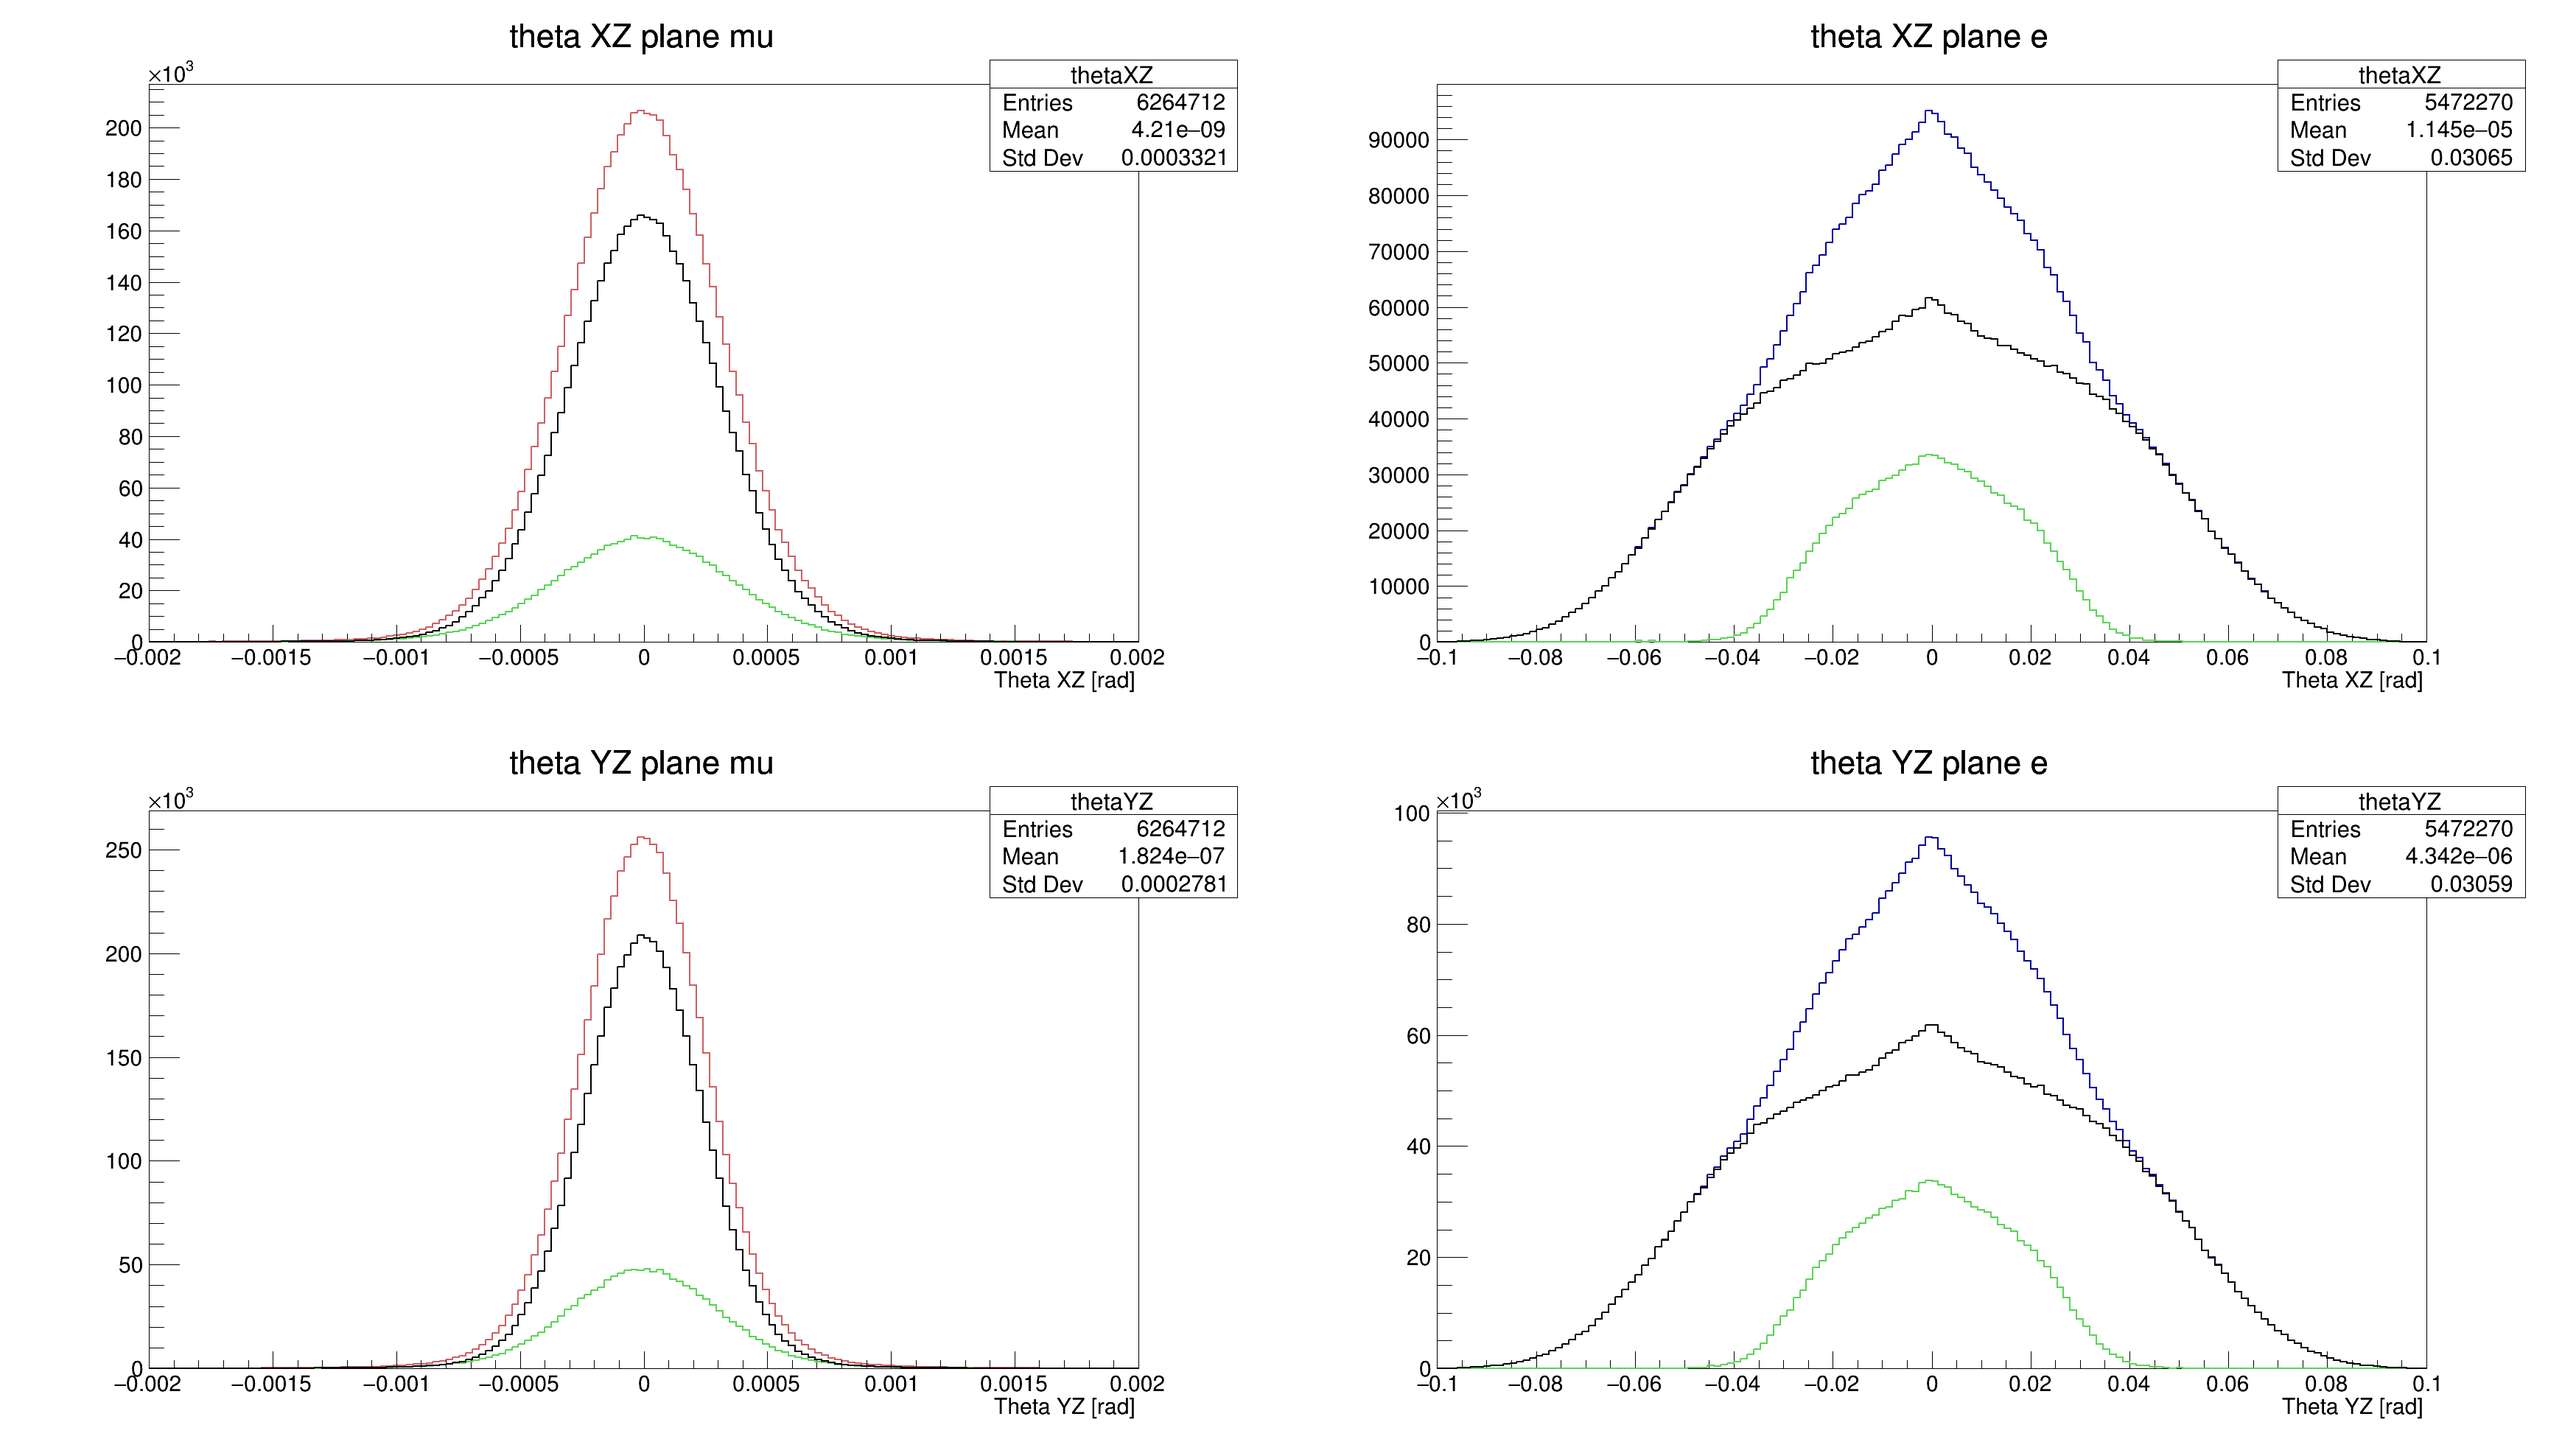
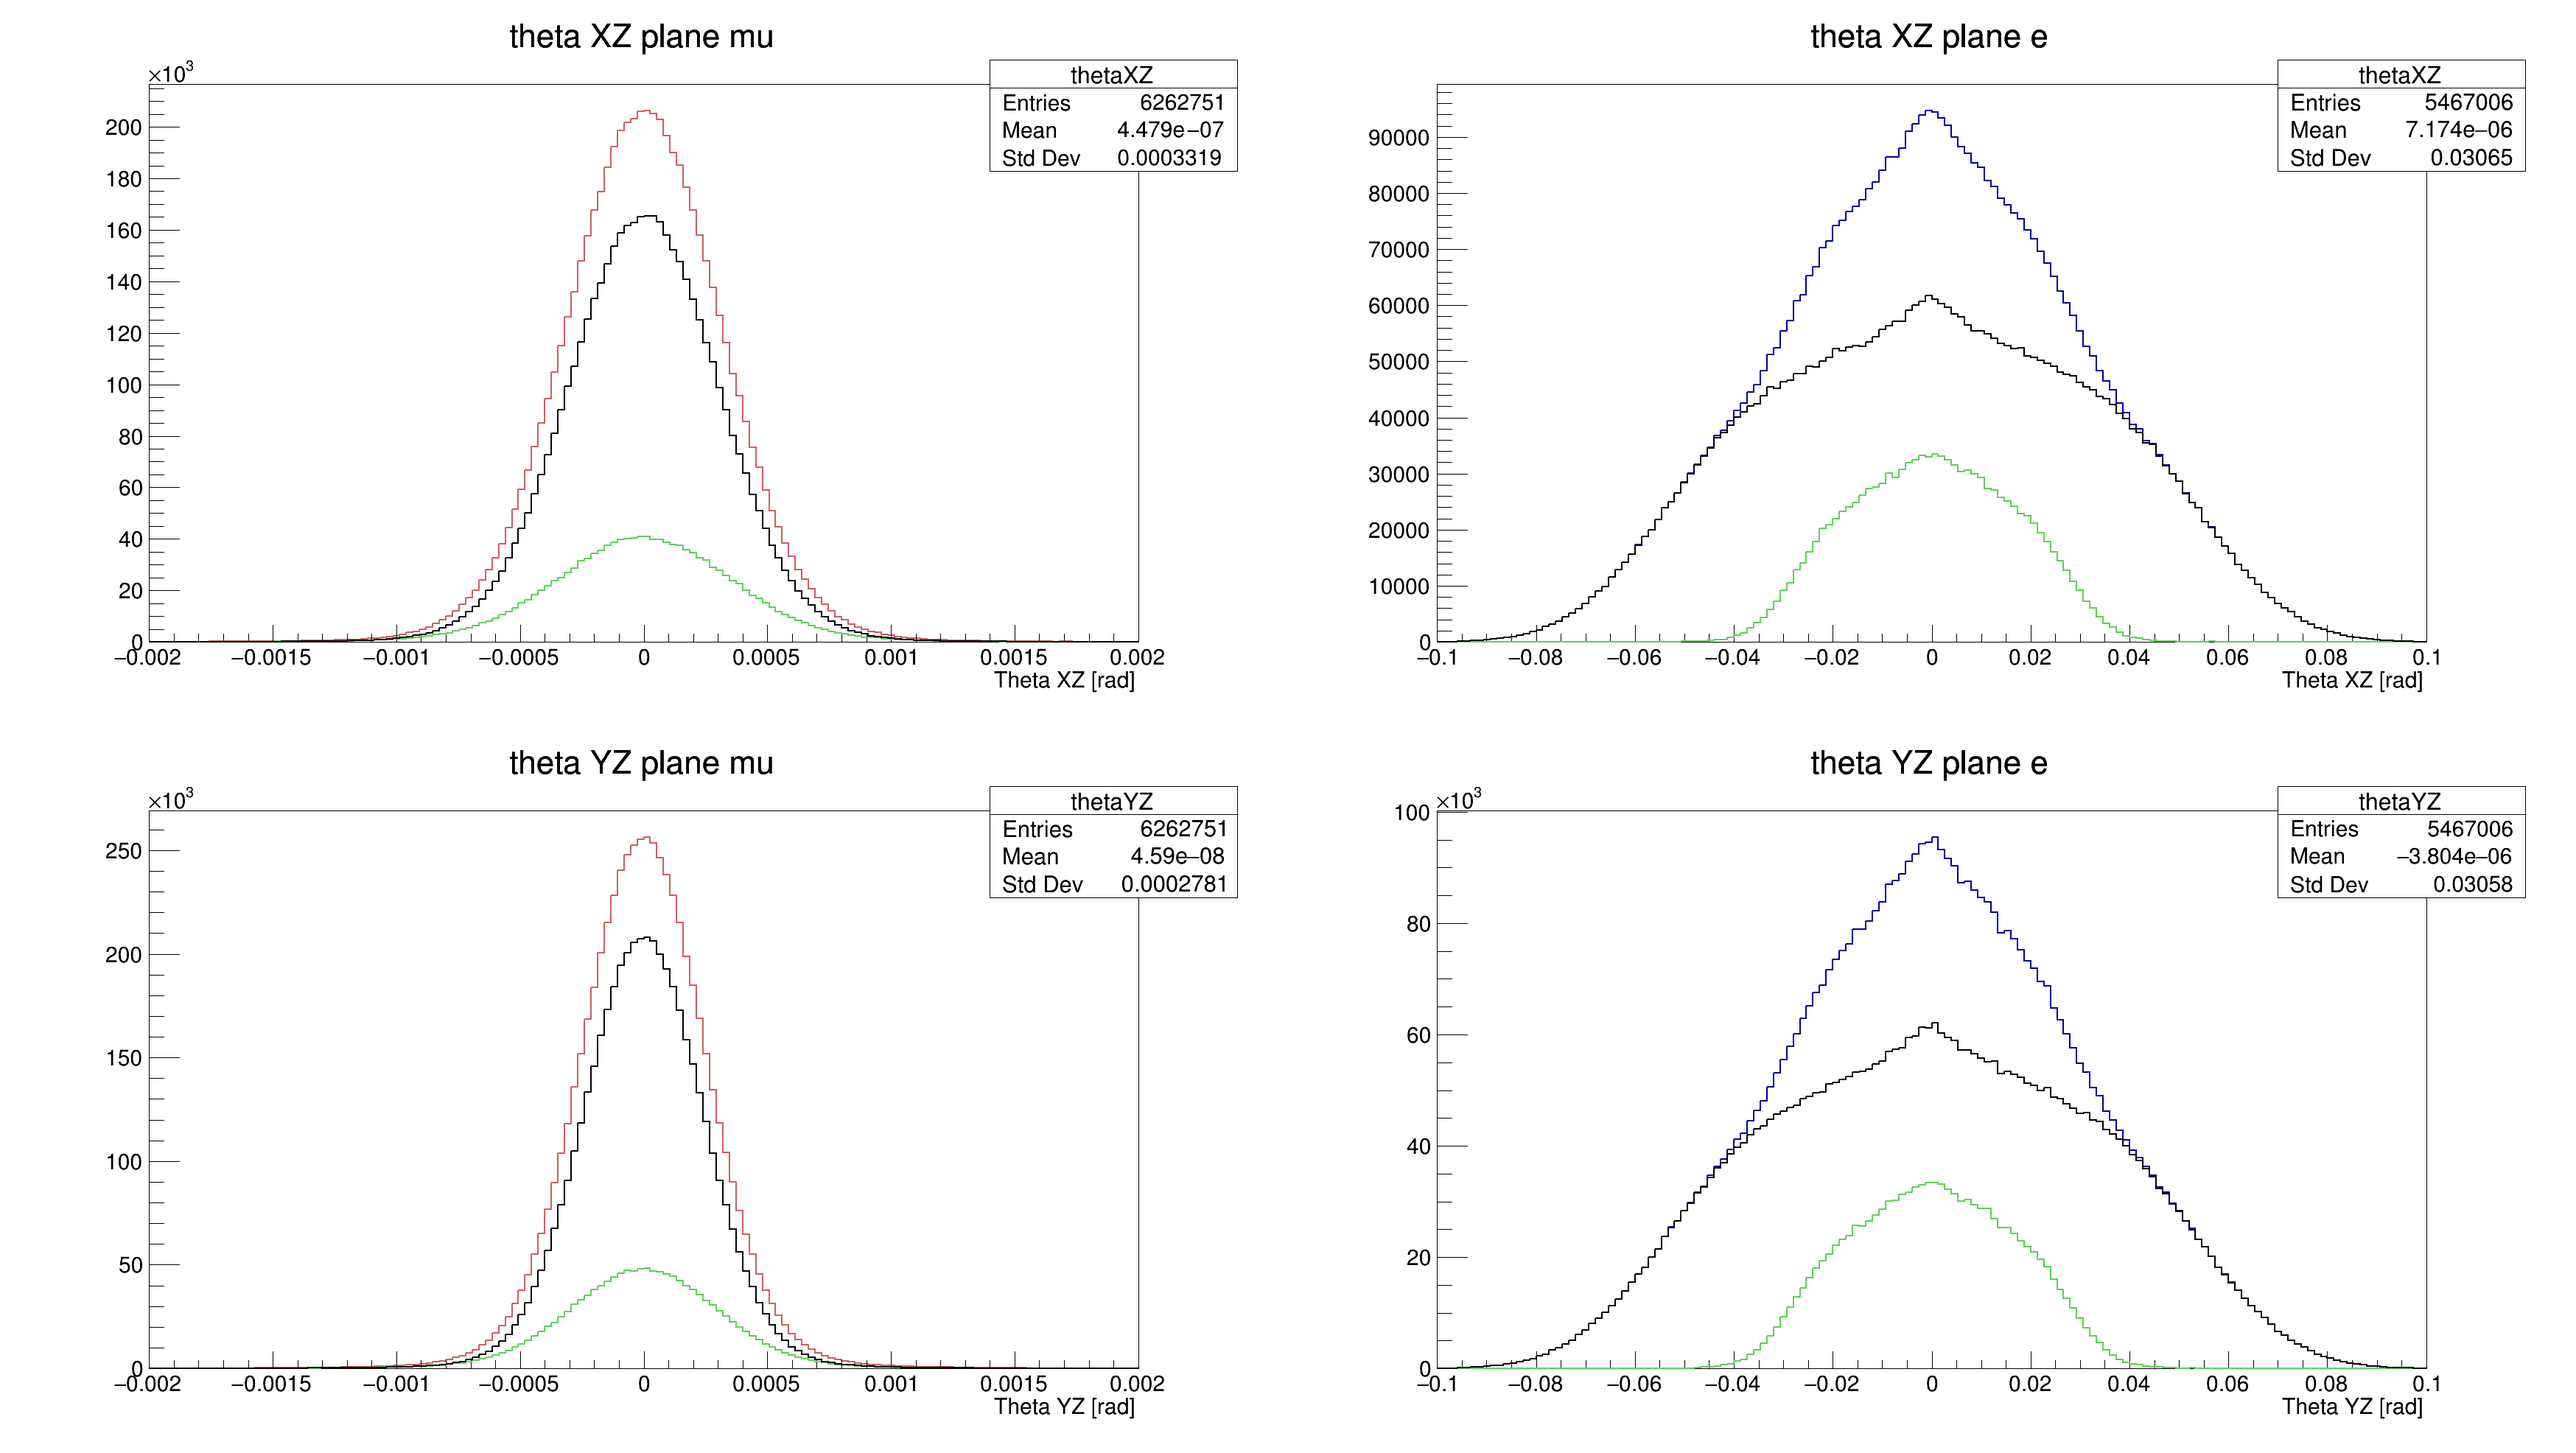
nodiv+

diff --git a/code/FastSim.cc b/code/FastSim.cc
@@ -174,9 +174,10 @@ PxPyPzEVector FastSim::Lorentz_ToLab(const PxPyPzEVector & pCoM) const
 TMatrixD FastSim::RotDivIN(const PxPyPzEVector & k) const
  {   
 
-Double_t divthx = gRandom->Gaus(0., 0.00027);
-Double_t divthy = gRandom->Gaus(0., 0.00020); 
-    
+/*Double_t divthx = gRandom->Gaus(0., 0.00027);
+Double_t divthy = gRandom->Gaus(0., 0.00020); */
+Double_t divthx = 0.;
+Double_t divthy = 0.; 
      
 if (tar==0){
 Double_t Thx=gRandom->Gaus(divthx,sigSI);
@@ -253,8 +254,6 @@ Double_t px=k.Px();
 
 Double_t ptz=sqrt(px*px+pz*pz);
 
-/* PxPyPzEVector pnewdiv(px, py, pz, k.E());     
-return pnewdiv;  */
 
 // costruzione della matrice di rotazione
 Double_t psi=atan2(px,pz); 
@@ -289,12 +288,6 @@ TMatrixD FastSim::MCSout(const PxPyPzEVector & kin, const PxPyPzEVector & k, con
 {
 
 Double_t const sS    = 0.00064; //m spessore silicio
-Double_t const x0S = 0.094; // m
-
-Double_t const sB    = 0.015; //m spessore berillio
-Double_t const x0B = 0.353; // m
-
-
 
 Double_t const dSS = 0.01; // m distanza tra i due 2S
 
@@ -356,9 +349,10 @@ Double_t sigBEe=(13.6/(ke.E()*1000))*sqrt(sB/x0B)*(1+0.038*log(sB/x0B)); //rad
     coo_in[0][1]=100;
     coo_in[0][2]=100;
     
-    Double_t xR = gRandom->Gaus(0,0.026);
-    Double_t yR = gRandom->Gaus(0,0.027);
-
+    /*Double_t xR = gRandom->Gaus(0,0.026);
+    Double_t yR = gRandom->Gaus(0,0.027);*/
+    Double_t xR = 0.;
+    Double_t yR = 0.;
     
     if(tar==0)
     {
